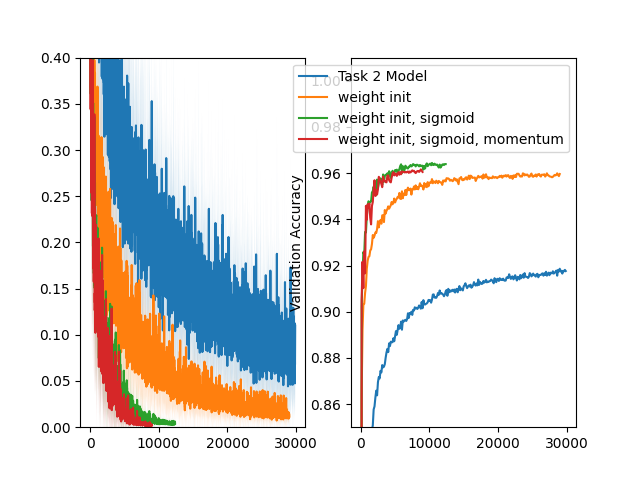
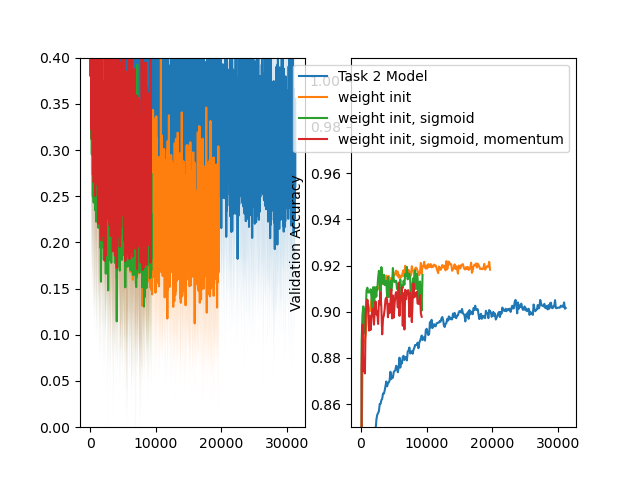
gjorde 4c

diff --git a/assignment2/task2a.py b/assignment2/task2a.py
@@ -76,13 +76,15 @@ class SoftmaxModel:
         self.use_improved_sigmoid = use_improved_sigmoid
         self.use_relu = use_relu
         self.use_improved_weight_init = use_improved_weight_init
-        self.z_j = None
-        self.a_j = None
+        self.hidden_layer_output = []
+        self.hidden_layer_input = []
+        #self.z_j = None
+        #self.a_j = None
         # Define number of output nodes
         # neurons_per_layer = [64, 10] indicates that we will have two layers:
         # A hidden layer with 64 neurons and a output layer with 10 neurons.
         self.neurons_per_layer = neurons_per_layer
-
+        self.num_hidden_layers = len(self.neurons_per_layer) - 1
         # Initialize the weights
         self.ws = []
         prev = self.I
@@ -93,8 +95,10 @@ class SoftmaxModel:
             self.ws.append(w)
             prev = size
         self.grads = [None for i in range(len(self.ws))]
+
+
         print("ws.shape", self.ws[0].shape, self.ws[1].shape)
-        if not use_improved_weight_init:
+        if not self.use_improved_weight_init:
             for i in range(len(self.ws)):
                 self.ws[i] = np.random.uniform(-1, 1, self.ws[i].shape)
         else:
@@ -114,20 +118,35 @@ class SoftmaxModel:
         # such as self.hidden_layer_output = ...
         #self.ws[0].shape = (785, 64)
         #self.ws[1].shape = (64, 10)
-        """
-        self.hidden_layer_output = np.divide(1, np.add(1, np.exp(-X @ self.ws[0]))) #y_hidden.shape = [batch_size, 64]  sigmoid        
-        
-        row_sums = np.sum(np.exp(z_k), axis=1)
-        row_sums = row_sums[:, np.newaxis]  
-        y_output = np.exp(z_k)/row_sums #y_output.shape = [batch_size, 10]   softmax regression
-        """
 
+        input_data = X
+        self.hidden_layer_input = []
+        self.hidden_layer_output = []
+        for layer_index in range(self.num_hidden_layers):
+            # Compute the linear transformation for the current hidden layer
+            z_j = input_data @ self.ws[layer_index]
+            self.hidden_layer_input.append(z_j)
+            # Apply the activation function for the current hidden layer
+            a_j = sigmoid(z_j, self.use_improved_sigmoid)
+            
+            # Update the input for the next hidden layer or output layer
+            self.hidden_layer_output.append(a_j)
+            input_data = a_j
+
+
+        z_k = input_data @ self.ws[-1]
+        y_output = softmax(z_k)
+        
+
+
+        """
         self.z_j = X @ self.ws[0]
+        self.hidden_layer_input = [self.z_j]
         self.a_j = sigmoid(self.z_j, self.use_improved_sigmoid)
+        self.hidden_layer_output = [self.a_j]
         z_k = self.a_j @ self.ws[1] 
         y_output = softmax(z_k)
-        #print("aj: ", self.a_j.shape)
-        #print("z_k:", z_k.shape)
+        """
         return y_output
 
     def backward(self, X: np.ndarray, outputs: np.ndarray, targets: np.ndarray) -> None:
@@ -153,16 +172,38 @@ class SoftmaxModel:
         #y (batch size, 10)
         #a_j (batch size,64)
         #z_k (batchsize, 10)
+       
+        # Initialize a list to store gradients for each layer
+        #self.grads = [0] * (self.num_hidden_layers + 1)
 
+        # Compute the gradient for the output layer
+        
+        self.zero_grad()
+        delta_k = -(targets - outputs)
+        self.grads[-1] = self.hidden_layer_output[-1].T.dot(delta_k) / X.shape[0]
+        delta_j = delta_k
+        
+        # Backpropagate the error through the hidden layers
+        for layer_index in range(self.num_hidden_layers - 1, -1, -1):
+            
+            delta_j = (sigmoid_derivative(self.hidden_layer_input[layer_index], self.use_improved_sigmoid) * delta_j.dot(self.ws[layer_index + 1].T))
+        
+            if layer_index > 0:
+                self.grads[layer_index] = self.hidden_layer_output[layer_index - 1].T.dot(delta_j) / X.shape[0] 
+            else:
+                self.grads[layer_index] = X.T.dot(delta_j) / X.shape[0]
+        
+
+
+        """
         self.grads = []
         delta_k = -(targets - outputs)
         delta_j = sigmoid_derivative(self.z_j, self.use_improved_sigmoid) * (delta_k).dot(self.ws[1].T)
         self.grads.append(X.T.dot(delta_j) / X.shape[0])
         self.grads.append(self.a_j.T.dot(delta_k) / X.shape[0])
-        
-        
-    
-        
+        """
+
+
         #self.grad = -(X.T @ np.subtract(targets, outputs))
         # outputs: outputs of model of shape: [batch size, num_outputs]
         #X: images of shape [batch size, 785]

diff --git a/assignment2/task2.py b/assignment2/task2.py
@@ -66,17 +66,18 @@ class SoftmaxTrainer(BaseTrainer):
         loss = cross_entropy_loss(Y_batch, y_hat)
         #self.model.w = np.subtract(self.model.w, self.learning_rate * self.model.grad)
         #print(self.model.ws[0].shape, self.model.grads[0].shape)
-        if self.use_momentum:
-            dW0 = self.model.grads[0] + self.momentum_gamma * self.previous_grads[0]
-            dW1 = self.model.grads[1] + self.momentum_gamma * self.previous_grads[1]
-            self.previous_grads[0] = dW0
-            self.previous_grads[1] = dW1
-            self.model.ws[0] -= self.learning_rate * dW0
-            self.model.ws[1] -= self.learning_rate * dW1
-        else:
-            self.model.ws[0] -= self.learning_rate * self.model.grads[0]
-            self.model.ws[1] -= self.learning_rate * self.model.grads[1]
-        
+        for i in range(len(self.model.ws)):
+            if self.use_momentum:
+                dW = self.model.grads[i] + self.momentum_gamma * self.previous_grads[i]
+                
+                self.previous_grads[i] = dW
+                
+                self.model.ws[i] -= self.learning_rate * dW
+                
+            else:
+                self.model.ws[i] -= self.learning_rate * self.model.grads[i]
+                
+            
         return loss
 
     def validation_step(self):
@@ -106,7 +107,7 @@ def main():
     num_epochs=50
     learning_rate=0.02 # 0.1
     batch_size=32
-    neurons_per_layer=[64, 10]
+    neurons_per_layer=[64, 64, 64, 64, 64, 64, 64, 64, 64, 64, 10]
     momentum_gamma=0.9  # Task 3 hyperparameter
     shuffle_data=True
 
